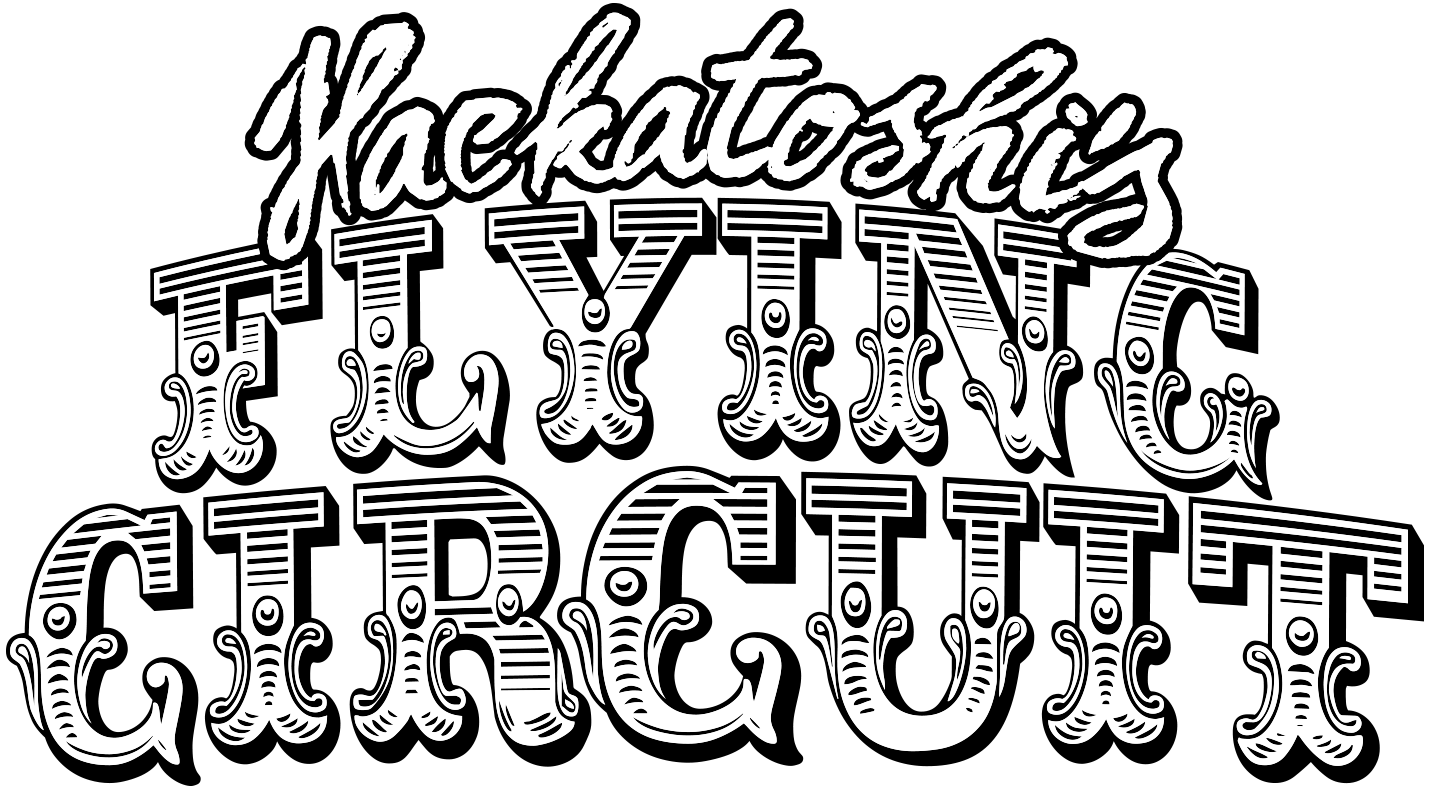
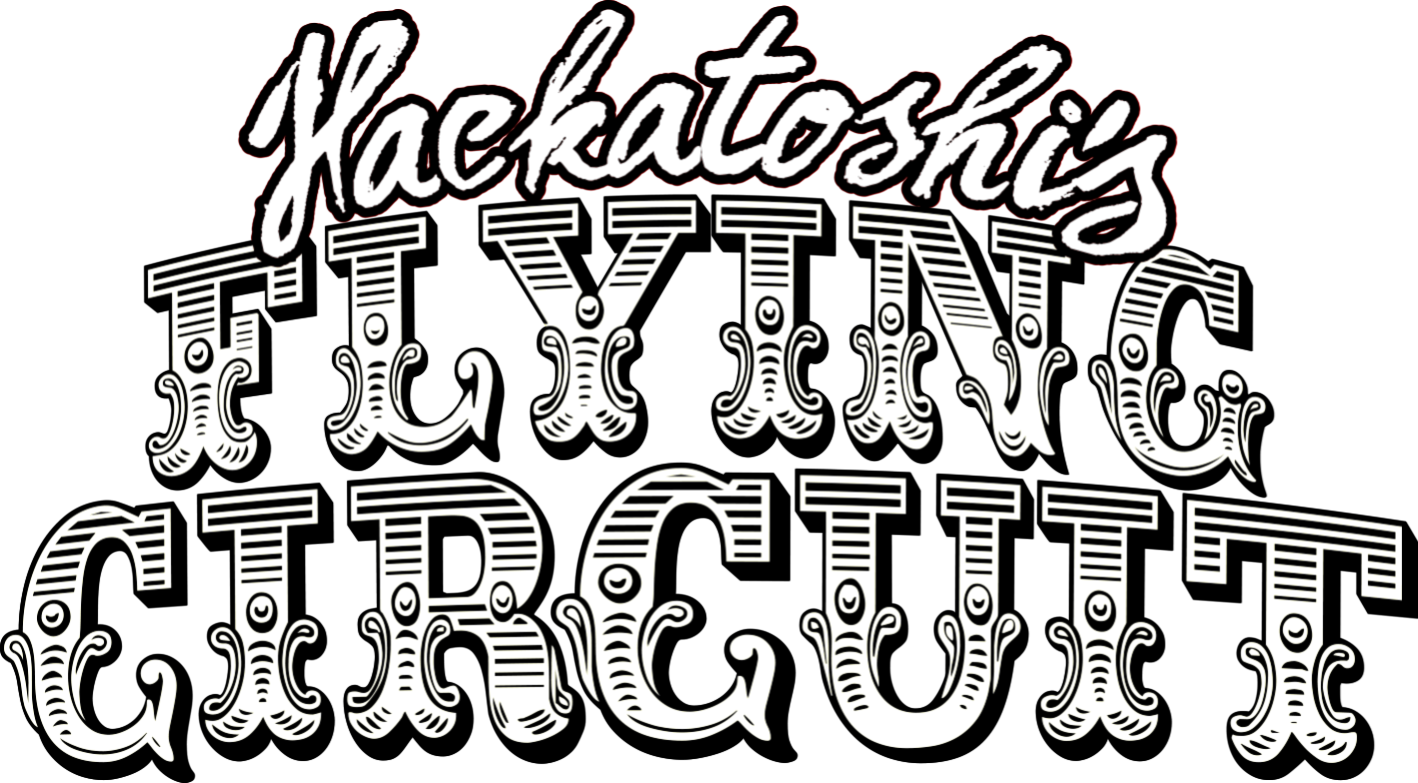
MVP

Changed region(s): [[0.0, 0.0, 1.0, 1.0]]

diff --git a/components/Intro.jsx b/components/Intro.jsx
@@ -1,0 +1,198 @@
+import { useState, useEffect} from "react";
+import { ScrollIcon } from "./ScrollIcon";
+import {HeroBlackBg} from "./HeroBlackBg";
+
+const initialState = {
+  innerHeight: 0,
+  lockHeight: null,
+  currentScrollHeight: null,
+  logoOpacity: 0,
+  lockScroll: true,
+  logoWidth: 80,
+  logoMarginLeft: 40,
+  logoIntensity: 100
+};
+
+export function Intro() {
+  const [state, setState] = useState(initialState);
+
+  useEffect(() => {
+    setState({ ...state, innerHeight: window.innerHeight });
+
+    const onScroll = () => {
+      const lockHeight = window.innerHeight + state.sectionTopMargin;
+      var logoIntensity = 100 - (window.scrollY / 10)*2;
+      console.log(logoIntensity);
+      setState({...state, logoIntensity: logoIntensity});
+
+      // var logoOpacityA = window.scrollY / 1000;
+      // var logoWidth = window.scrollY;
+      // //
+      // setState({...state, logoOpacity: logoOpacityA});
+
+      // if (window.scrollY > lockHeight) {
+      //   // not revealing yet...
+      //   setState({ ...state, lockHeight });
+      // } else {
+      //   // whole logo revealed
+      //   setState({ ...state, lockHeight: null });
+      // }
+    };
+
+    window.addEventListener("scroll", onScroll);
+    return () => {
+      window.removeEventListener("scroll", onScroll);
+    };
+  }, [state.lockHeight, state.logoOpacity, state.logoIntensity]);
+
+  return (
+    <div>
+      <div className="intro">
+        <div className="u-full-width header row">
+          <div className="header-logos" id="leftTop">
+            <img src="/static/img/institute-presents-black.png"></img>
+          </div>
+
+          <div className="header-logos" id="rightTop">
+            <img src="/static/img/paralelnipolis-logo.png"></img>
+          </div>
+        </div>
+
+        <div className="info row">
+          <div className="u-full-width column">
+          July 19<sup>th</sup>-21<sup>st</sup>, 2019, Prague, CZ
+          </div>
+        </div>
+
+        <div className="container sticky">
+
+          <div className="intro-body row sticky">
+              {/*<img src="/static/img/hfc-text-bw-transparent.png"*/}
+              {/*   style={{*/}
+              {/*     width: `${state.logoWidth}%`,*/}
+              {/*     // marginLeft: `-${state.logoMarginLeft}%`,*/}
+              {/*}}/>*/}
+              <img src="/static/img/hfc-text-color-transparent.png"
+                 style={{
+                   width: `${state.logoWidth}%`,
+                   // marginLeft: `-${state.logoMarginLeft}%`,
+                   filter: `grayscale(${state.logoIntensity}%)`
+                   // opacity: `${state.logoOpacity}`
+
+                   }}
+              />
+
+          </div>
+          {/*<div*/}
+          {/*  className="scroll-down row"*/}
+          {/*  // style={{ top: `${state.mounted ? state.innerHeight - 150 : 500}px`, position: "absolute" }}*/}
+          {/*>*/}
+          {/*  <ScrollIcon scrollTo="#manifesto" smoothScroll={true} />*/}
+          {/*</div>*/}
+        </div>
+        {/*<div className="test">*/}
+        {/*  Test*/}
+        {/*</div>*/}
+      </div>
+      <div className="sticky">
+        <div className="container black">
+          <div className="row u-full-width black">
+            <img className="flowers" src="/static/img/flowers.png" />
+            <img className="head sticky" src="/static/img/head.png" />
+          </div>
+        </div>
+      </div>
+
+      <style jsx>{`
+
+        .info {
+          color: black;
+          font-weight: 700;
+          font-size: 2rem;
+          text-align: center;
+        }
+        .test{
+          background: linear-gradient(white, black);
+          // height: 50%
+        }
+        
+        .sticky {
+          position: sticky;
+          top: 0;
+        }
+        .intro{ 
+        background: white;
+          background: linear-gradient(white, black);
+          min-height: -webkit-fill-available;
+          min-height: -moz-available;
+          min-height: fill-available;
+          height: 100%;
+        } 
+        
+        .intro-body {
+          padding: 5%;
+        }
+        
+        .header {
+          top: 0;
+          padding: 40px;
+          height: 120px;
+          z-index: 200;
+        }
+
+        .header-logos {
+          display: inline-block;
+          margin-bottom: 45px;
+          
+        }
+        .header-logos img {
+          max-width: 130px;
+          max-height: 80px;
+        }
+        
+        #leftTop {
+          float: left;
+        }
+        
+        #rightTop {
+          margin-top: -20px;
+          float: right;
+        }
+        
+        .intro-body {
+          text-align: center;
+        }
+        
+        .intro-body img {
+          width: 80%;
+          height: auto;
+          position: sticky;
+          position: -webkit-sticky;
+          top: 50px;
+          display: initial;
+        }
+        
+        .scroll-down {
+          
+        }
+        
+        .black {
+          text-align: center;
+          background-color: #000000;
+        }
+        .flowers {
+          width: 96%;
+          margin: 0 2%;
+          z-index: 100;
+        }
+        .head {
+          position: absolute;
+          width: 90%;
+          left: 29%;
+          margin-top: -80px;
+          z-index: 101;
+        }
+      `}</style>
+    </div>
+  );
+}

diff --git a/components/Content.jsx b/components/Content.jsx
@@ -5,23 +5,23 @@ export function Content() {
         <h3 className="manifesto-title">Tracks</h3>
       </div>
       <div className="row">
-        <div className="one-third column track-card">
+        <p className="one-third column track-card">
           <h5>Privacy</h5>
-          <div>
+          <p>
             Projects participating in the privacy challenge should enhance the power of individuals regarding their personal data. The teams should focus on systematically limiting the privacy breaching factors rather then performing phishing attempts and social attacks.
-          </div>
-        </div>
+          </p>
+        </p>
         <div className="one-third column track-card">
           <h5>Decentralization</h5>
-          <div>
+          <p>
             Decentralization is one of the key topics surrounding Paralelni Polis, it’s a universal protection against a single point of failure in most systems including human decision making.
-          </div>
+          </p>
         </div>
         <div className="one-third column track-card">
           <h5>Urban Hacktivism</h5>
-          <div>
+          <p>
             This track doesn’t require to spend the weekend inside, on the contrary, the projects submitted for this track have to be materialized in the city of Prague. The installations or performances have be relevant for Paralelni Polis and should encourage an independent society.
-          </div>
+          </p>
         </div>
       </div>
       <div className="row award-card">
@@ -30,7 +30,9 @@ export function Content() {
           At the Open exploit a group of curators will pick interesting exploits that were revealed over the course of last year and award those who released them.
         </div>
       </div>
-      <div className="row">
+      <div className="row" style={{
+        marginTop: `40px`
+      }}>
         <h5> Join us: <a href="mailto:hackatoshi@flyingcircuit.com">hackatoshi@flyingcircuit.com</a></h5>
       </div>
       <style jsx>{`

diff --git a/pages/index.js b/pages/index.js
@@ -1,5 +1,6 @@
 import { Manifesto } from "../components/Manifesto";
 import { AnimatedHeader } from "../components/AnimatedHeader";
+import { Intro } from "../components/Intro";
 import { Content } from "../components/Content";
 import { Sponsors } from "../components/Sponsors";
 import { Mentors } from "../components/Mentors";
@@ -12,7 +13,8 @@ import { Tickets } from "../components/Tickets";
 
 export default () => (
   <div>
-    <AnimatedHeader />
+    {/*<AnimatedHeader />*/}
+    <Intro />
     <Section id="manifesto">
       <Manifesto />
     </Section>

diff --git a/components/Manifesto.jsx b/components/Manifesto.jsx
@@ -4,10 +4,10 @@ import AnchorLink from "react-anchor-link-smooth-scroll";
 export function Manifesto() {
   return (
     <div className="container manifesto-section">
+
       <div className="row manifesto">
         <h3 className="manifesto-title">Manifesto</h3>
       </div>
-
       <div className="row manifesto-paragraph">
         <p>
           Paralelní Polis mission is to bring alternatives and tools for  preventing authoritarian tendencies in society.
